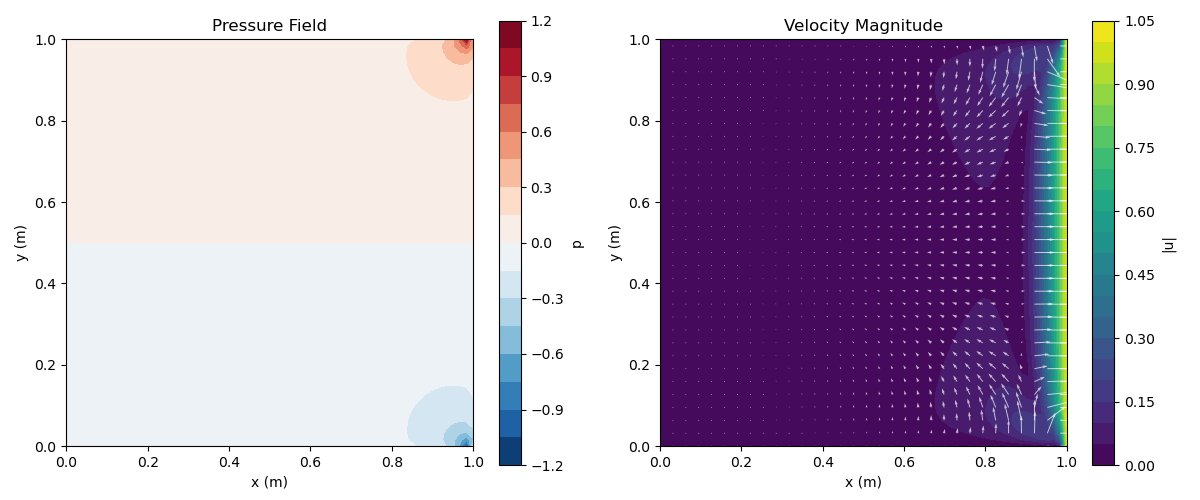
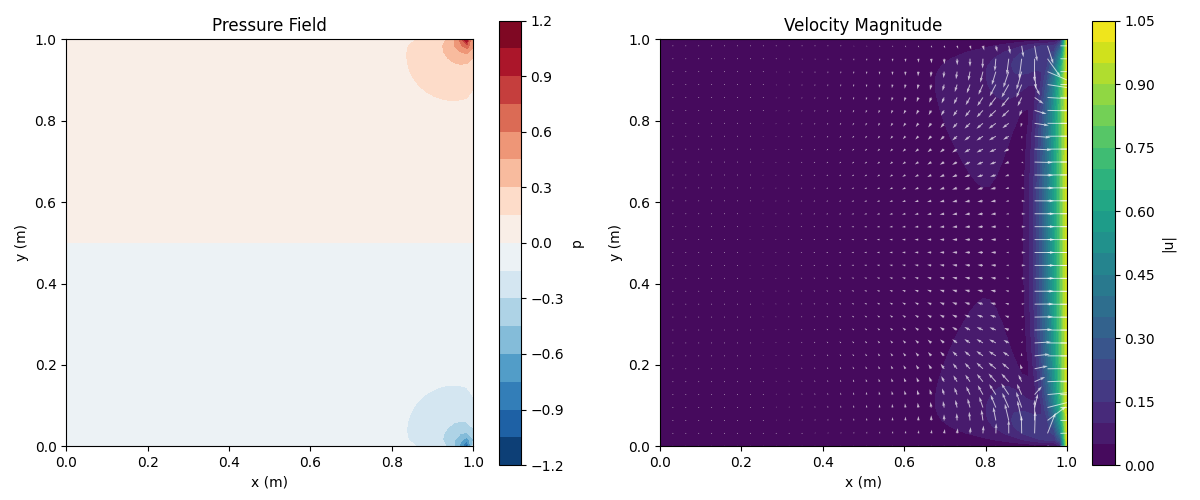
Improve pressure solver with SOR iteration and Neumann boundary conditions
- Increase solver iterations from 100 to 300
- Implement SOR (omega=1.5) for better convergence
- Apply proper Neumann boundary conditions (extrapolation at walls)
- Pressure field now shows realistic distribution across domain

diff --git a/src/cfd_solver/solver/solver.py b/src/cfd_solver/solver/solver.py
@@ -162,16 +162,28 @@ class Solver:
         # The RHS should be div/dt at ALL cell centers, not just interior
         rhs = div / dt
         
-        # Simple Jacobi iteration for pressure
-        for _ in range(100):
+        # SOR (Successive Over-Relaxation) for pressure with better convergence
+        # Neumann boundary conditions: dp/dn = 0 at all walls
+        omega = 1.5  # over-relaxation parameter (1 < omega < 2)
+        for _ in range(300):
+            p_old = self.p.copy()
+            # Update interior points using 5-point stencil
             p_new = self.p.copy()
-            # Update interior points only (boundary points remain zero or extrapolated)
             p_new[1:-1, 1:-1] = (
                 (self.p[2:, 1:-1] + self.p[:-2, 1:-1]) / dx**2 +
                 (self.p[1:-1, 2:] + self.p[1:-1, :-2]) / dy**2 -
                 rhs[1:-1, 1:-1]
             ) / (2 / dx**2 + 2 / dy**2)
-            self.p = p_new
+            
+            # Apply Neumann boundary conditions (zero normal derivative)
+            # Extrapolate pressure at boundaries
+            p_new[0, :] = p_new[1, :]    # left boundary
+            p_new[-1, :] = p_new[-2, :]  # right boundary
+            p_new[:, 0] = p_new[:, 1]    # bottom boundary
+            p_new[:, -1] = p_new[:, -2]  # top boundary
+            
+            # Apply SOR relaxation
+            self.p = omega * p_new + (1 - omega) * self.p
 
         # --- Corrector: apply pressure gradient ---
         # Pressure gradient at face locations
